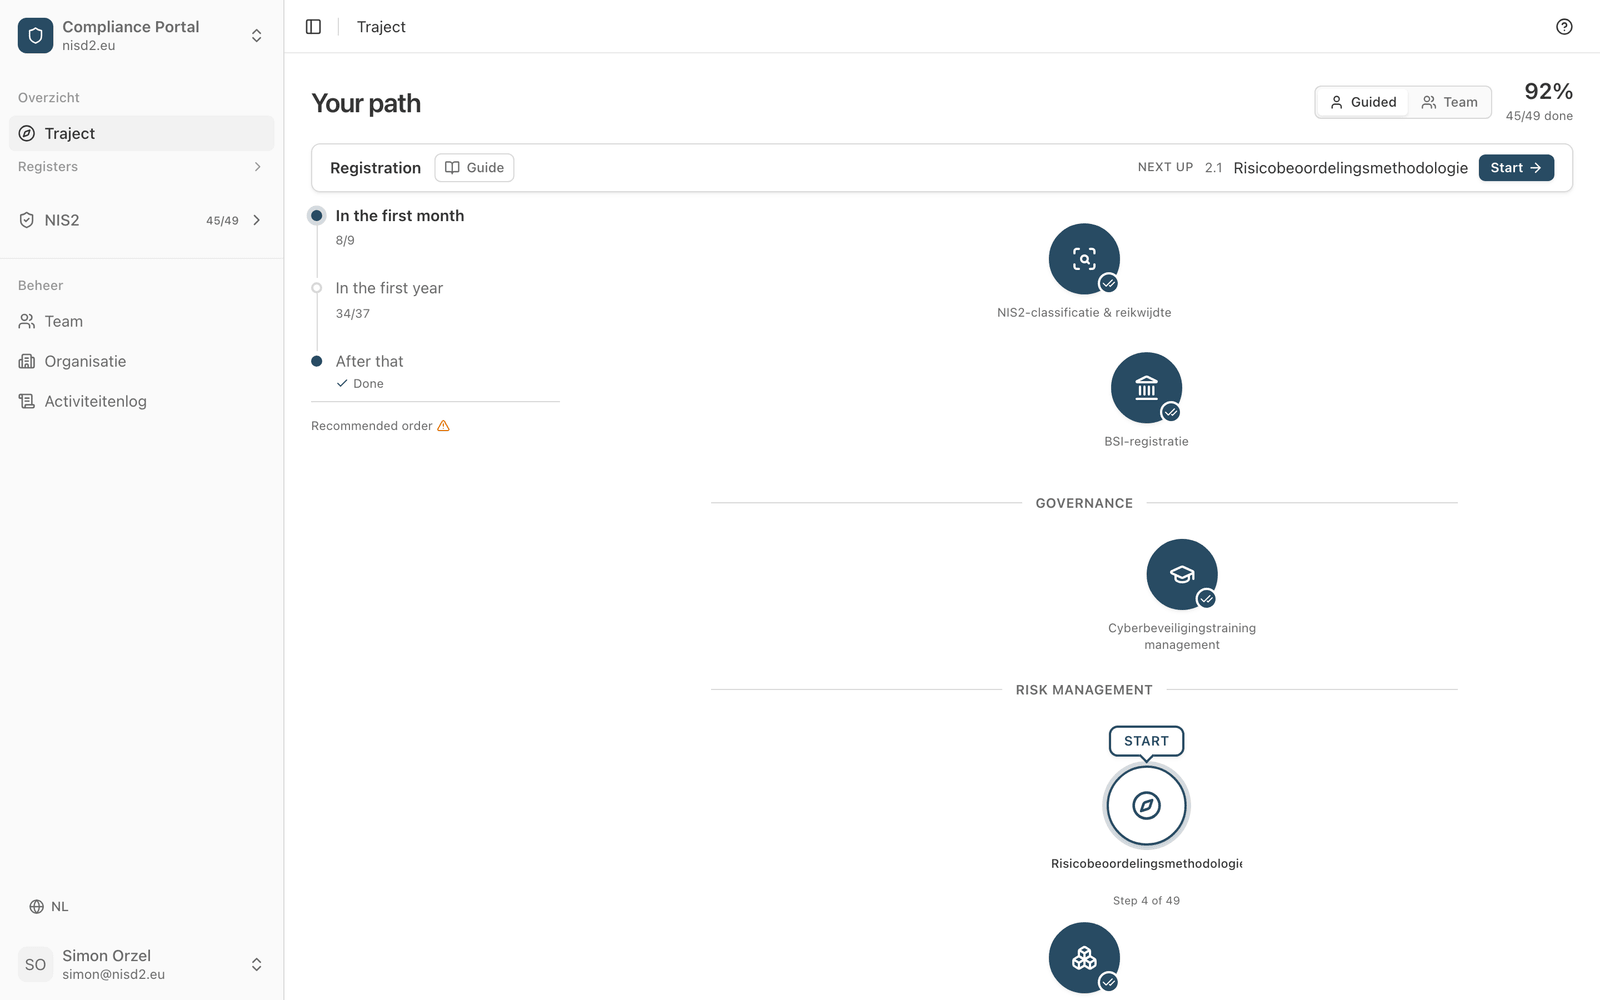
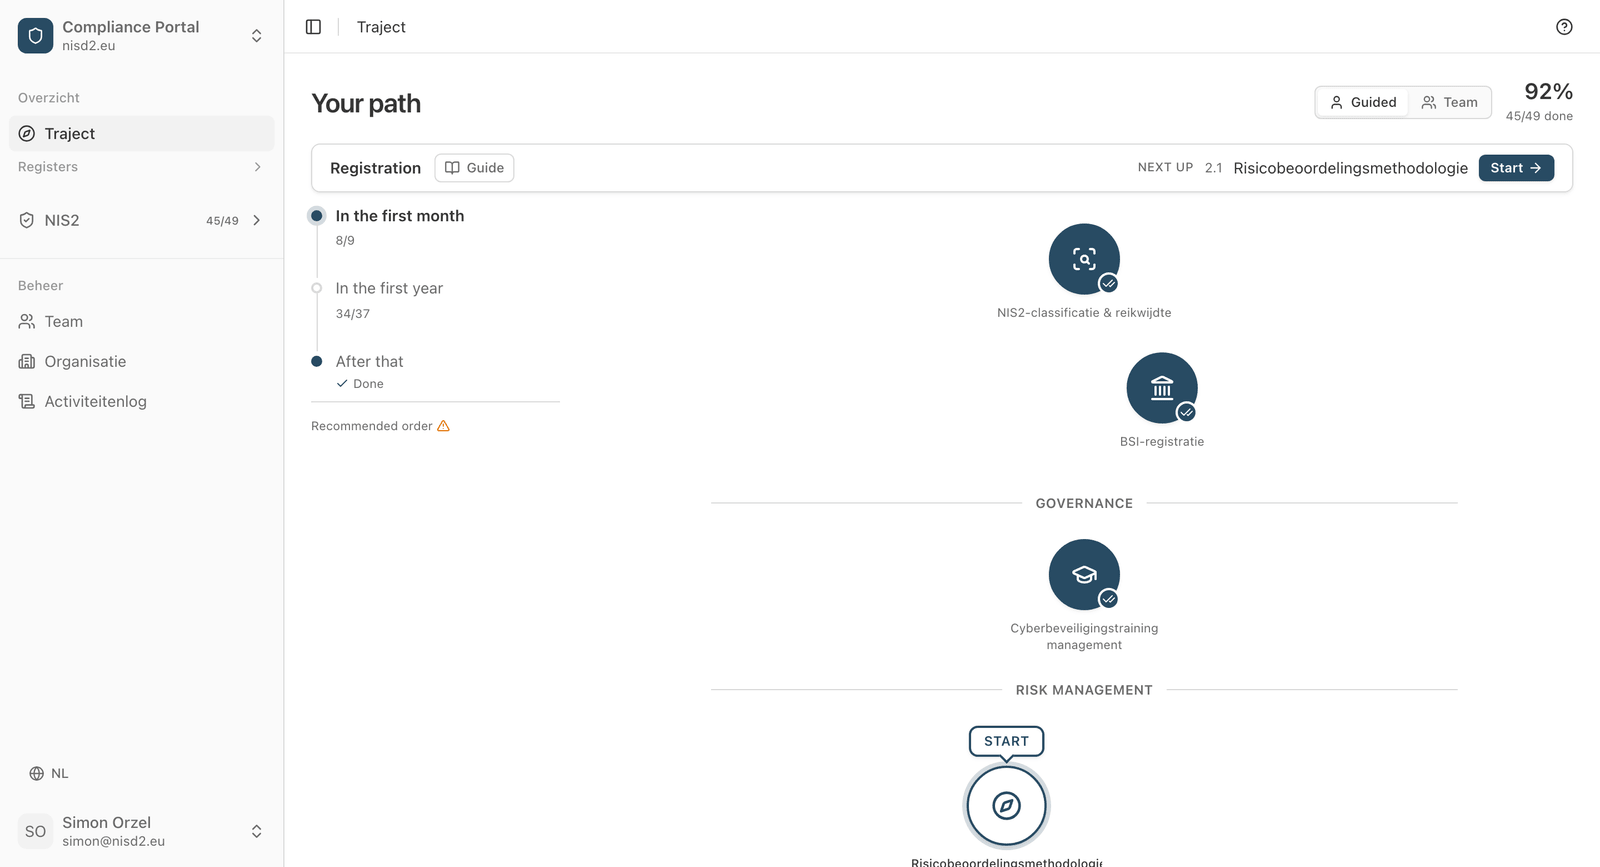
Centre the guided path on the section dividers, and crop the hero tighter
The steps still weave, which is the point of a guided path. What was wrong
was the phase.

WAVE ran on a period of eight (0, 56, 88, 56, 0, -56, -88, -56). That has
zero mean over a full cycle, but it opens with its entire positive lobe, and
only about four steps are ever visible at once: on the landing hero and above
the fold in the app. So the first screenful caught the positive lobe whole
and every node sat right of the GOVERNANCE and RISIKOMANAGEMENT dividers. It
read as a centring bug rather than as motion.

Period four (0, 70, 0, -70) keeps the weave and makes any four consecutive
steps average to zero, so the line stays on the dividers' axis wherever you
enter it.

Hero capture height also drops 900 -> 780. The guided layout puts a short
phase rail beside a long path column, so a taller frame is mostly empty
gutter under the rail. Narrowing the viewport makes that worse rather than
better, because the capture gets taller once scaled to 1600px wide; probed at
1440/1280/1180/1100 before settling on trimming height instead. 780 is the
last frame that still holds the whole ANFANGEN callout and the current-step
ring.

All ten locales plus the fallback re-shot.

diff --git a/app/[locale]/(portal)/journey/solo-path.ts b/app/[locale]/(portal)/journey/solo-path.ts
@@ -29,13 +29,6 @@ import {
 } from "./path-nodes";
 
 /**
- * Horizontal offsets in px, cycled over the global step index so the line
- * serpentines continuously down the page instead of restarting at every
- * section header. Mirrors the reference spacing (0, ±44, ±70).
- */
-const WAVE = [0, 56, 88, 56, 0, -56, -88, -56] as const;
-
-/**
  * Stufen: the three deadline windows, read straight off the bands rather than
  * restated here. The band already carries both the "by when" and the sentence
  * under it, and a second copy is how the two views end up disagreeing about
@@ -51,6 +44,21 @@ function stageForBand(band: Band, de: boolean): SoloStage {
     hint: de ? meta.hintDe : meta.hintEn,
   };
 }
+
+/**
+ * Horizontal offsets in px, cycled over the global step index so the line
+ * serpentines down the page instead of restarting at every section header.
+ *
+ * The period is four, and that is the whole point. It used to be eight
+ * (0, 56, 88, 56, 0, -56, -88, -56), which has zero mean over a full cycle but
+ * opens with its entire positive lobe. Only about four steps are ever visible
+ * at once, on the landing hero and above the fold in the app, so the first
+ * screenful caught that lobe and every node sat right of the section dividers.
+ * It read as a centring bug rather than as motion. At period four any four
+ * consecutive steps average to zero, so the path still weaves but stays on the
+ * dividers' axis wherever you look at it.
+ */
+const WAVE = [0, 70, 0, -70] as const;
 
 export type SoloStep = {
   node: FlowNode;

diff --git a/app/[locale]/(portal)/journey/SoloPath.tsx b/app/[locale]/(portal)/journey/SoloPath.tsx
@@ -59,6 +59,9 @@ function categoryHref(categorySlug: string) {
 /**
  * The guided layout: one winding line of steps, exactly one of them live.
  *
+ * The winding is deliberate, the Duolingo-shaped path. What was wrong was its
+ * phase, not its existence: see WAVE in solo-path.ts.
+ *
  * Deliberately missing next to the team view: role columns, the ordering
  * toggle, status filter chips and the state legend. All of it describes how
  * work is divided, which is the one thing a single implementer never needs.
